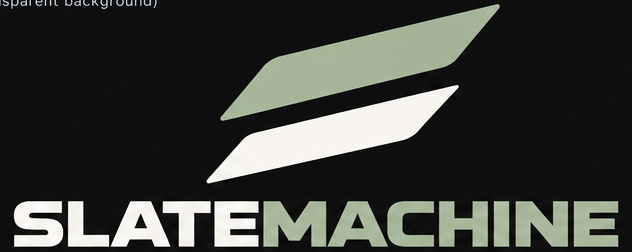
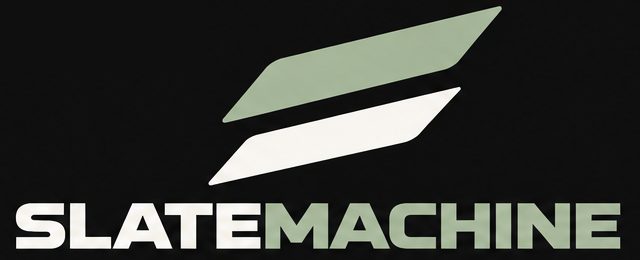
Add files via upload

diff --git a/index.html b/index.html
@@ -4,7 +4,7 @@
 <meta charset="UTF-8">
 <meta name="viewport" content="width=device-width,initial-scale=1.0,viewport-fit=cover">
 <meta name="theme-color" content="#111111">
-<meta name="dayslate-build" content="2026.09.18-slatemachine-header-v14">
+<meta name="dayslate-build" content="2026.09.18-slatemachine-header-v15">
 <meta name="application-name" content="SlateMachine">
 <meta name="apple-mobile-web-app-title" content="SlateMachine">
 <meta name="apple-mobile-web-app-capable" content="yes">
@@ -656,6 +656,30 @@ body.dtr-day-off .time-grid,body.dtr-day-off .no-lunch-row,body.dtr-day-off #hou
   }
 }
 
+
+/* v15 — balanced signed-in masthead */
+.signed-in-brand{
+  width:100%!important;
+  height:86px!important;
+  max-width:350px!important;
+  margin:0 auto 14px!important;
+  background:url("slatemachine-app-header.png") center/contain no-repeat!important;
+}
+#dtrScreen .signed-in-brand,
+#setupScreen .signed-in-brand,
+#departmentScreen .signed-in-brand,
+#timesheetScreen .signed-in-brand{
+  margin-bottom:14px!important;
+}
+@media(max-width:600px){
+  .signed-in-brand{
+    height:82px!important;
+    max-width:330px!important;
+    margin-top:0!important;
+    margin-bottom:12px!important;
+  }
+}
+
 </style>
 </head>
 <body>
@@ -935,7 +959,7 @@ body.dtr-day-off .time-grid,body.dtr-day-off .no-lunch-row,body.dtr-day-off #hou
 <script>
 
 // DaySlate update checker — prevents Safari/Home Screen from staying on stale index.html.
-const DAYSLATE_BUILD="2026.09.18-slatemachine-header-v14";
+const DAYSLATE_BUILD="2026.09.18-slatemachine-header-v15";
 async function checkForAppUpdate(){
   try{
     const base=new URL("index.html",location.href);
